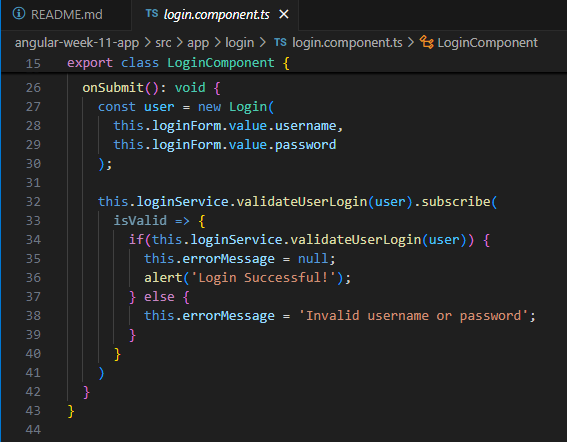
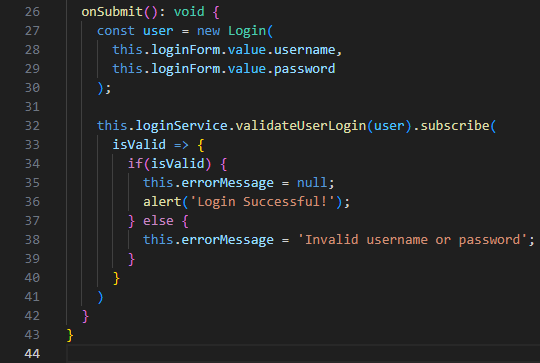
Doc: update readme

diff --git a/Week 11/Lecture 21/Assignment 01/README.md b/Week 11/Lecture 21/Assignment 01/README.md
@@ -169,13 +169,15 @@ The project will default in `http://localhost:4200`
 
 2. `Setting Mock DB`
 
-Create `db.json` in `<name-project>/`
+Create `db.json` in `<name-project>/db.json`
 
 ```
 npm install json-server
 
 npx json-server db.json
 ```
+
+![Setting Mock DB](img/Mock%20DB.png)
 
 Json server started in `http://localhost:3000/`
 
